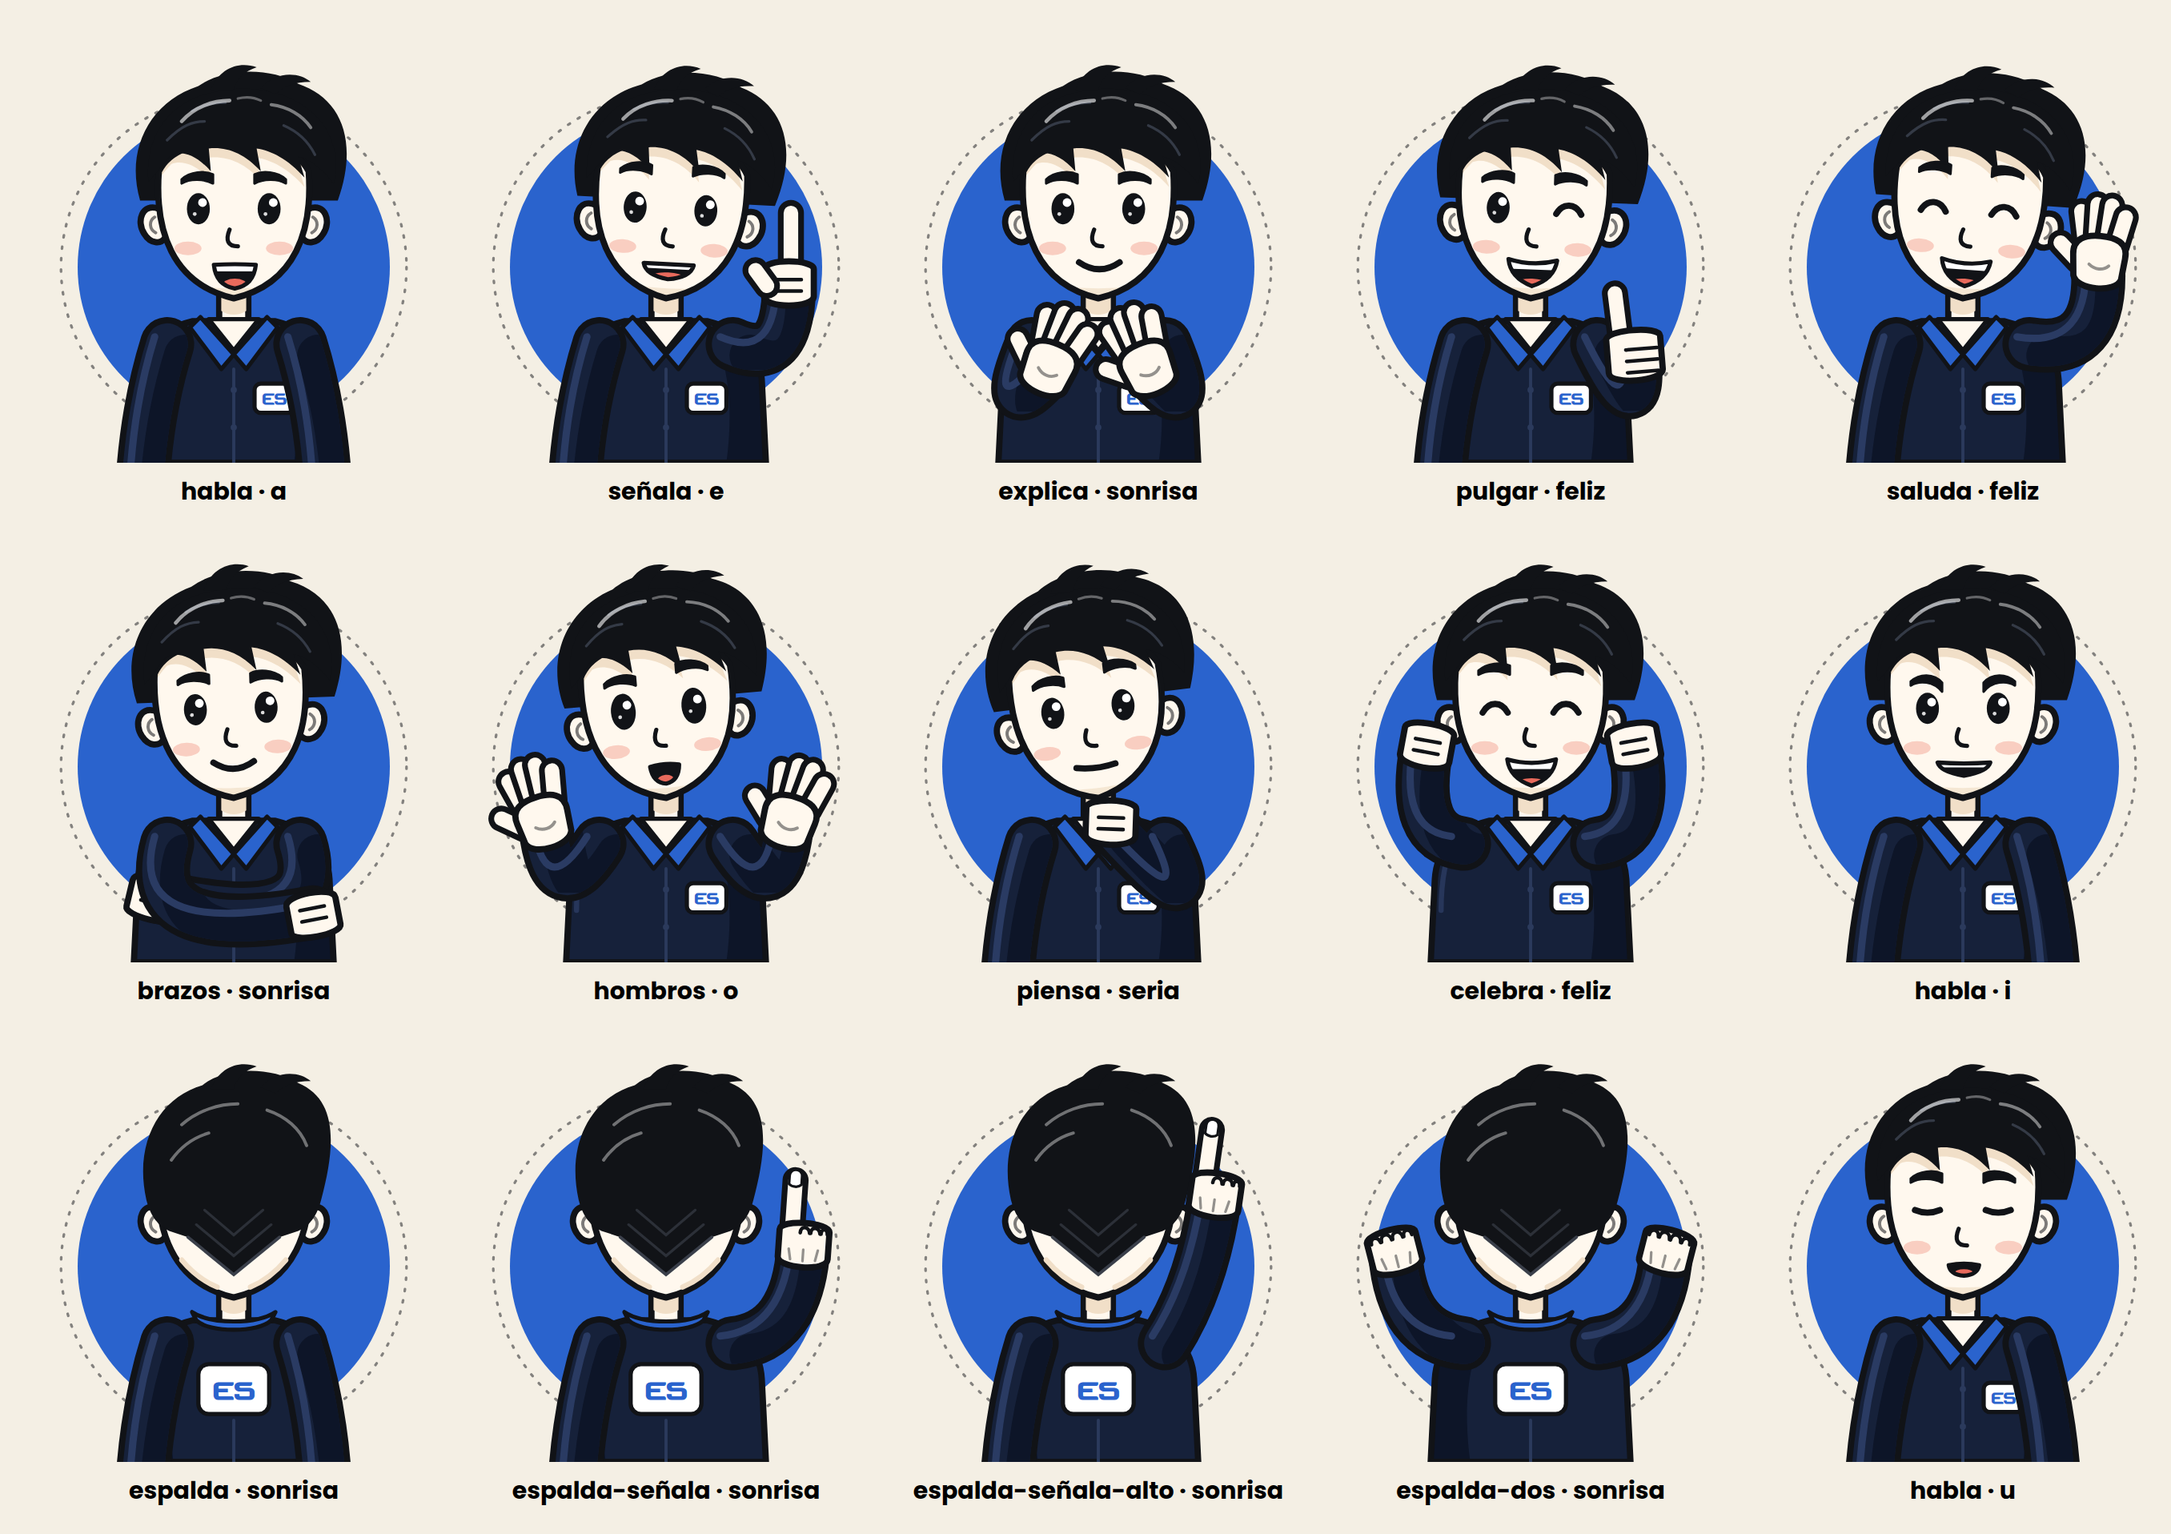
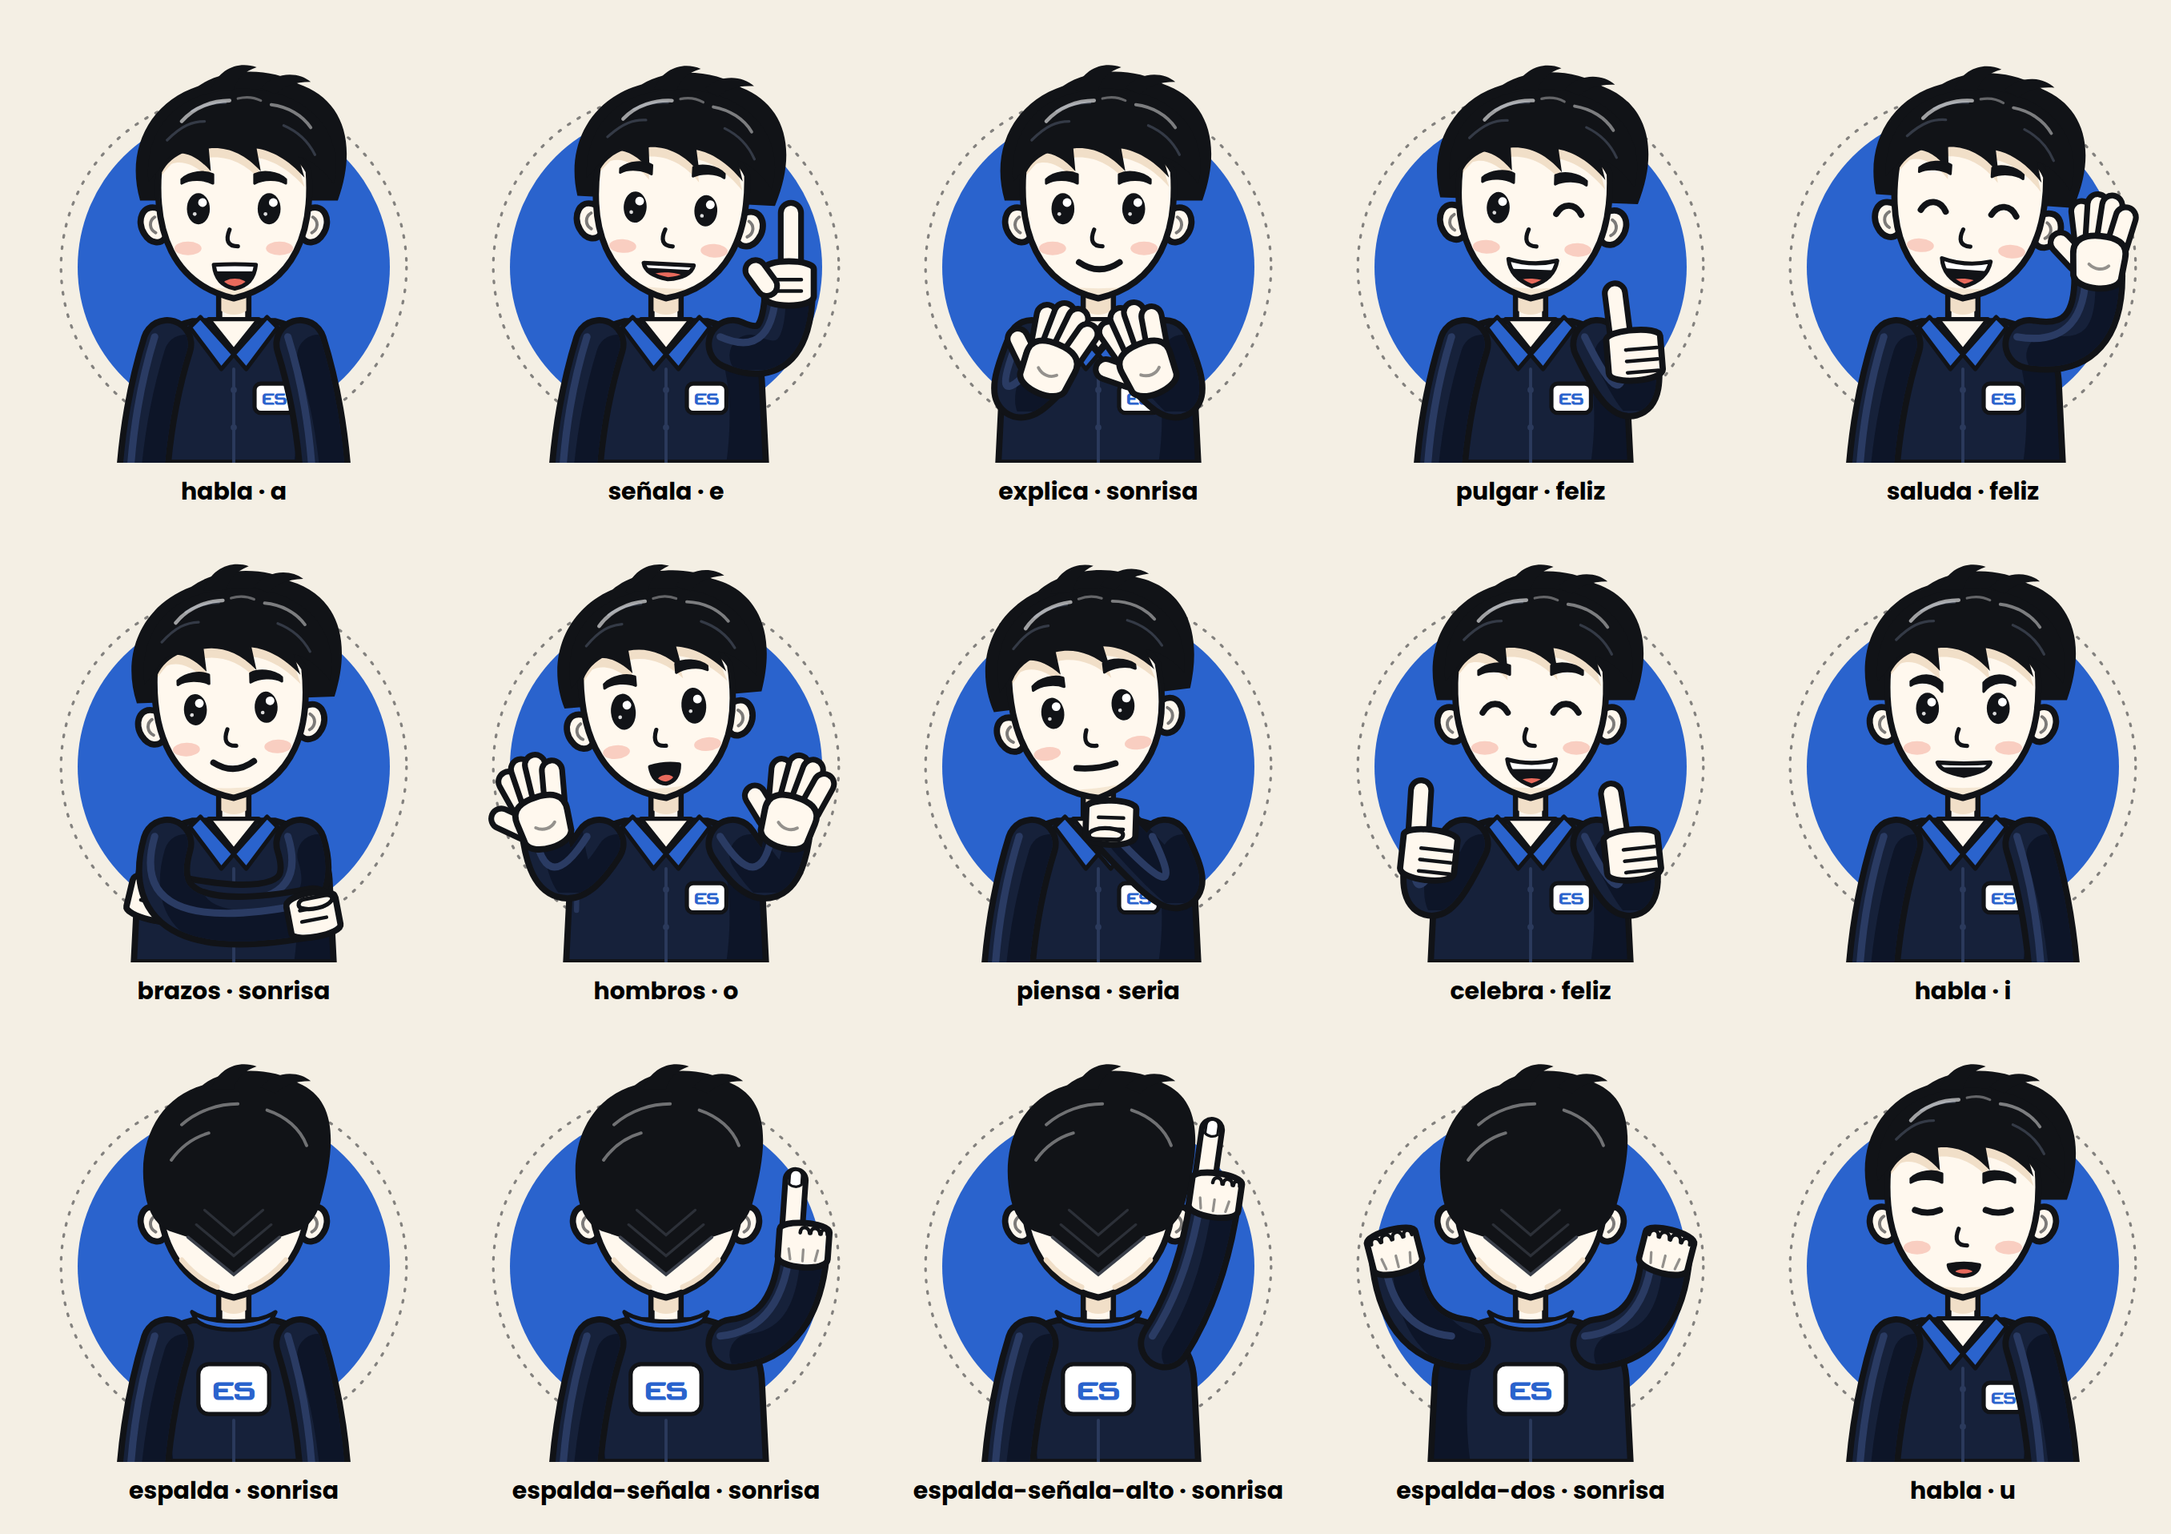
[Marketing] Chispa celebra con los pulgares arriba (a la altura del pecho), puños con pulgar y la sección de cursos en el teléfono
Claude-Session: https://claude.ai/code/session_01JAmucwCZe2Ld2fALTHbQBs

Changed region(s): [[0.6195, 0.4619, 0.6814, 0.6159], [0.7124, 0.4619, 0.7743, 0.6159]]

diff --git a/marketing/reels/chispa-medio.html b/marketing/reels/chispa-medio.html
@@ -40,7 +40,20 @@ html, body { width: 540px; height: 960px; overflow: hidden; background: #f4efe4;
 #flash { position: absolute; inset: 0; background: #fff; opacity: 0; z-index: 60; }
 #tel { position: absolute; left: 145px; top: 78px; width: 250px; height: 400px; border-radius: 34px; background: #0a0a0a; padding: 8px; box-shadow: 0 0 0 2px #2c2f34, 7px 7px 0 #111317; z-index: 12; }
 #scr { position: relative; width: 100%; height: 100%; border-radius: 27px; overflow: hidden; background: #fff; }
-#scr img { position: absolute; inset: 0; width: 100%; height: 100%; object-fit: cover; object-position: 50% 0; transform-origin: 50% 0; }
+#web { position: absolute; inset: 0; transform-origin: 50% 0; background: #f8f9fa; }
+#web .hdr { height: 62px; overflow: hidden; background: #fff; border-bottom: 1px solid #e9ecef; }
+#web .hdr img { width: 100%; display: block; }
+#web .cw { padding: 10px 10px 0; }
+#web .eb { font: 700 7.5px Inter; letter-spacing: 1px; color: #2a63cd; }
+#web .h1 { margin-top: 2px; font: 800 19px/1.1 Inter; color: #212529; }
+#web .h2 { margin-top: 10px; font: 700 11px Inter; color: #212529; }
+#web .cg { display: grid; grid-template-columns: 1fr 1fr; gap: 8px; margin-top: 7px; }
+#web .cc { background: #fff; border: 1px solid #e9ecef; border-radius: 9px; overflow: hidden; padding-bottom: 6px; }
+#web .th { position: relative; height: 62px; display: flex; align-items: center; justify-content: center; }
+#web .th svg { width: 26px; height: 26px; }
+#web .th span { position: absolute; left: 5px; top: 5px; font: 800 6px Inter; letter-spacing: .5px; padding: 2px 4px; border-radius: 3px; background: #ffd54a; color: #212529; }
+#web .cc b { display: block; margin: 5px 6px 0; font: 700 9.5px Inter; color: #212529; }
+#web .cc i { display: block; margin: 1px 6px 0; font: 500 7.5px Inter; font-style: normal; color: #6a6c6b; }
 #isla { position: absolute; left: 50%; top: 9px; width: 64px; height: 18px; margin-left: -32px; border-radius: 10px; background: #000; z-index: 2; }
 #sello { position: absolute; right: 40px; top: 300px; z-index: 14; padding: 8px 14px; background: #ffd54a; color: #111317; border: 3px solid #111317; border-radius: 12px; box-shadow: 5px 5px 0 #111317; font: 800 22px/1 Poppins; text-align: center; }
 #sello small { display: block; margin-top: 4px; font: 700 12px Inter; letter-spacing: 1.5px; }
@@ -61,7 +74,20 @@ html, body { width: 540px; height: 960px; overflow: hidden; background: #f4efe4;
 <div id="stage">
   <div id="grid"></div>
   <div id="head"><span class="brand"><img src="assets/logo-color.png" alt=""></span><span class="chip">ELECTROSHOPVE.COM</span></div>
-    <div id="tel" class="o"><div id="scr"><img src="assets/web-movil.jpg" alt=""></div></div>
+    <div id="tel" class="o"><div id="scr"><div id="web">
+    <div class="hdr"><img src="assets/web-movil.jpg" alt=""></div>
+    <div class="cw">
+      <div class="eb">APRENDE CON EXPERTOS</div>
+      <div class="h1">Cursos online</div>
+      <div class="h2">Todos los cursos</div>
+      <div class="cg">
+        <div class="cc"><div class="th" style="background:linear-gradient(135deg,#2a63cd,#142d61)"><svg viewBox="0 0 24 24" fill="none" stroke="#fff" stroke-width="2" stroke-linecap="round" stroke-linejoin="round"><rect x="4" y="4" width="16" height="16" rx="2"/><rect x="9" y="9" width="6" height="6"/><line x1="9" y1="1" x2="9" y2="4"/><line x1="15" y1="1" x2="15" y2="4"/><line x1="9" y1="20" x2="9" y2="23"/><line x1="15" y1="20" x2="15" y2="23"/></svg><span>MUY PRONTO</span></div><b>Tecnología</b><i>Electro Shop</i></div>
+        <div class="cc"><div class="th" style="background:linear-gradient(135deg,#f59f00,#b45309)"><svg viewBox="0 0 24 24" fill="none" stroke="#fff" stroke-width="2" stroke-linecap="round" stroke-linejoin="round"><polygon points="13 2 3 14 12 14 11 22 21 10 12 10 13 2"/></svg><span>MUY PRONTO</span></div><b>Energía</b><i>Electro Shop</i></div>
+        <div class="cc"><div class="th" style="background:linear-gradient(135deg,#0f9d58,#047857)"><svg viewBox="0 0 24 24" fill="none" stroke="#fff" stroke-width="2" stroke-linecap="round" stroke-linejoin="round"><path d="M14.7 6.3a1 1 0 0 0 0 1.4l1.6 1.6a1 1 0 0 0 1.4 0l3.77-3.77a6 6 0 0 1-7.94 7.94l-6.91 6.91a2.12 2.12 0 0 1-3-3l6.91-6.91a6 6 0 0 1 7.94-7.94l-3.76 3.76z"/></svg><span>MUY PRONTO</span></div><b>Reparación</b><i>Electro Shop</i></div>
+        <div class="cc"><div class="th" style="background:linear-gradient(135deg,#7599de,#1e4ba3)"><svg viewBox="0 0 24 24" fill="none" stroke="#fff" stroke-width="2" stroke-linecap="round" stroke-linejoin="round"><rect x="2" y="3" width="20" height="14" rx="2"/><line x1="8" y1="21" x2="16" y2="21"/><line x1="12" y1="17" x2="12" y2="21"/></svg><span>MUY PRONTO</span></div><b>Software</b><i>Electro Shop</i></div>
+      </div>
+    </div>
+  </div></div></div>
   <div id="sello" class="o">Cursos<small>MUY PRONTO</small></div>
   <div id="pro">
     <div id="pT" class="o">¿Eres <em>especialista?</em></div>
@@ -125,7 +151,7 @@ window.seek = (t) => {
   const y = (1 - back(t / .55)) * 160; $('#chispa').style.transform = `translateY(${y.toFixed(1)}px)`;
   $('#disc').style.transform = `scale(${(.6 + .4 * back(t / .5)).toFixed(3)})`; $('#disc').style.opacity = Math.min(1, t / .25).toFixed(2);
   ver('#tel', t, .05, W('eres') - .35, 40);
-  document.querySelector('#scr img').style.transform = `scale(${(1 + .08 * Math.min(1, Math.max(0, t / 5))).toFixed(4)})`;
+  document.querySelector('#web').style.transform = `scale(${(1 + .06 * Math.min(1, Math.max(0, t / 4))).toFixed(4)})`;
   ver('#sello', t, W('cursos') - .05, W('eres') - .35, 20);
   ver('#pT', t, W('eres') - .05, 99, 16);
   ver('#pc0', t, W('tecnología') - .05, 99, 12); ver('#pc1', t, W('energía') - .05, 99, 12);

diff --git a/marketing/reels/chispa-medio.src.html b/marketing/reels/chispa-medio.src.html
@@ -40,7 +40,20 @@ html, body { width: 540px; height: 960px; overflow: hidden; background: #f4efe4;
 #flash { position: absolute; inset: 0; background: #fff; opacity: 0; z-index: 60; }
 #tel { position: absolute; left: 145px; top: 78px; width: 250px; height: 400px; border-radius: 34px; background: #0a0a0a; padding: 8px; box-shadow: 0 0 0 2px #2c2f34, 7px 7px 0 #111317; z-index: 12; }
 #scr { position: relative; width: 100%; height: 100%; border-radius: 27px; overflow: hidden; background: #fff; }
-#scr img { position: absolute; inset: 0; width: 100%; height: 100%; object-fit: cover; object-position: 50% 0; transform-origin: 50% 0; }
+#web { position: absolute; inset: 0; transform-origin: 50% 0; background: #f8f9fa; }
+#web .hdr { height: 62px; overflow: hidden; background: #fff; border-bottom: 1px solid #e9ecef; }
+#web .hdr img { width: 100%; display: block; }
+#web .cw { padding: 10px 10px 0; }
+#web .eb { font: 700 7.5px Inter; letter-spacing: 1px; color: #2a63cd; }
+#web .h1 { margin-top: 2px; font: 800 19px/1.1 Inter; color: #212529; }
+#web .h2 { margin-top: 10px; font: 700 11px Inter; color: #212529; }
+#web .cg { display: grid; grid-template-columns: 1fr 1fr; gap: 8px; margin-top: 7px; }
+#web .cc { background: #fff; border: 1px solid #e9ecef; border-radius: 9px; overflow: hidden; padding-bottom: 6px; }
+#web .th { position: relative; height: 62px; display: flex; align-items: center; justify-content: center; }
+#web .th svg { width: 26px; height: 26px; }
+#web .th span { position: absolute; left: 5px; top: 5px; font: 800 6px Inter; letter-spacing: .5px; padding: 2px 4px; border-radius: 3px; background: #ffd54a; color: #212529; }
+#web .cc b { display: block; margin: 5px 6px 0; font: 700 9.5px Inter; color: #212529; }
+#web .cc i { display: block; margin: 1px 6px 0; font: 500 7.5px Inter; font-style: normal; color: #6a6c6b; }
 #isla { position: absolute; left: 50%; top: 9px; width: 64px; height: 18px; margin-left: -32px; border-radius: 10px; background: #000; z-index: 2; }
 #sello { position: absolute; right: 40px; top: 300px; z-index: 14; padding: 8px 14px; background: #ffd54a; color: #111317; border: 3px solid #111317; border-radius: 12px; box-shadow: 5px 5px 0 #111317; font: 800 22px/1 Poppins; text-align: center; }
 #sello small { display: block; margin-top: 4px; font: 700 12px Inter; letter-spacing: 1.5px; }
@@ -61,7 +74,20 @@ html, body { width: 540px; height: 960px; overflow: hidden; background: #f4efe4;
 <div id="stage">
   <div id="grid"></div>
   <div id="head"><span class="brand"><img src="assets/logo-color.png" alt=""></span><span class="chip">ELECTROSHOPVE.COM</span></div>
-    <div id="tel" class="o"><div id="scr"><img src="assets/web-movil.jpg" alt=""></div></div>
+    <div id="tel" class="o"><div id="scr"><div id="web">
+    <div class="hdr"><img src="assets/web-movil.jpg" alt=""></div>
+    <div class="cw">
+      <div class="eb">APRENDE CON EXPERTOS</div>
+      <div class="h1">Cursos online</div>
+      <div class="h2">Todos los cursos</div>
+      <div class="cg">
+        <div class="cc"><div class="th" style="background:linear-gradient(135deg,#2a63cd,#142d61)"><svg viewBox="0 0 24 24" fill="none" stroke="#fff" stroke-width="2" stroke-linecap="round" stroke-linejoin="round"><rect x="4" y="4" width="16" height="16" rx="2"/><rect x="9" y="9" width="6" height="6"/><line x1="9" y1="1" x2="9" y2="4"/><line x1="15" y1="1" x2="15" y2="4"/><line x1="9" y1="20" x2="9" y2="23"/><line x1="15" y1="20" x2="15" y2="23"/></svg><span>MUY PRONTO</span></div><b>Tecnología</b><i>Electro Shop</i></div>
+        <div class="cc"><div class="th" style="background:linear-gradient(135deg,#f59f00,#b45309)"><svg viewBox="0 0 24 24" fill="none" stroke="#fff" stroke-width="2" stroke-linecap="round" stroke-linejoin="round"><polygon points="13 2 3 14 12 14 11 22 21 10 12 10 13 2"/></svg><span>MUY PRONTO</span></div><b>Energía</b><i>Electro Shop</i></div>
+        <div class="cc"><div class="th" style="background:linear-gradient(135deg,#0f9d58,#047857)"><svg viewBox="0 0 24 24" fill="none" stroke="#fff" stroke-width="2" stroke-linecap="round" stroke-linejoin="round"><path d="M14.7 6.3a1 1 0 0 0 0 1.4l1.6 1.6a1 1 0 0 0 1.4 0l3.77-3.77a6 6 0 0 1-7.94 7.94l-6.91 6.91a2.12 2.12 0 0 1-3-3l6.91-6.91a6 6 0 0 1 7.94-7.94l-3.76 3.76z"/></svg><span>MUY PRONTO</span></div><b>Reparación</b><i>Electro Shop</i></div>
+        <div class="cc"><div class="th" style="background:linear-gradient(135deg,#7599de,#1e4ba3)"><svg viewBox="0 0 24 24" fill="none" stroke="#fff" stroke-width="2" stroke-linecap="round" stroke-linejoin="round"><rect x="2" y="3" width="20" height="14" rx="2"/><line x1="8" y1="21" x2="16" y2="21"/><line x1="12" y1="17" x2="12" y2="21"/></svg><span>MUY PRONTO</span></div><b>Software</b><i>Electro Shop</i></div>
+      </div>
+    </div>
+  </div></div></div>
   <div id="sello" class="o">Cursos<small>MUY PRONTO</small></div>
   <div id="pro">
     <div id="pT" class="o">¿Eres <em>especialista?</em></div>
@@ -125,7 +151,7 @@ window.seek = (t) => {
   const y = (1 - back(t / .55)) * 160; $('#chispa').style.transform = `translateY(${y.toFixed(1)}px)`;
   $('#disc').style.transform = `scale(${(.6 + .4 * back(t / .5)).toFixed(3)})`; $('#disc').style.opacity = Math.min(1, t / .25).toFixed(2);
   ver('#tel', t, .05, W('eres') - .35, 40);
-  document.querySelector('#scr img').style.transform = `scale(${(1 + .08 * Math.min(1, Math.max(0, t / 5))).toFixed(4)})`;
+  document.querySelector('#web').style.transform = `scale(${(1 + .06 * Math.min(1, Math.max(0, t / 4))).toFixed(4)})`;
   ver('#sello', t, W('cursos') - .05, W('eres') - .35, 20);
   ver('#pT', t, W('eres') - .05, 99, 16);
   ver('#pc0', t, W('tecnología') - .05, 99, 12); ver('#pc1', t, W('energía') - .05, 99, 12);

diff --git a/marketing/reels/assets/mascota/chispa.js b/marketing/reels/assets/mascota/chispa.js
@@ -95,7 +95,8 @@
       <path d="M-14 -6 L12 -6 M-14 5 L12 5" stroke="${INK}" stroke-width="3.5" stroke-linecap="round"/>${dedo(-21, 0, -32, -15)}`),
     pulgar: (x, y, r) => g(x, y, r, `${dedo(-12, -18, -14, -62)}<path d="M-26 -18 C-26 -28 26 -28 26 -18 L26 14 C26 26 -26 26 -26 14 Z" fill="${SKIN}" ${S}/>
       <path d="M-8 -7 L22 -7 M-8 4 L22 4 M-8 15 L22 15" stroke="${INK}" stroke-width="3.5" stroke-linecap="round"/>`),
-    puño: (x, y, r) => g(x, y, r, `<path d="${PUÑO}" fill="${SKIN}" ${S}/><path d="M-12 -7 L12 -7 M-12 4 L12 4" stroke="${INK}" stroke-width="3.5" stroke-linecap="round"/>`),
+    puño: (x, y, r) => g(x, y, r, `<path d="${PUÑO}" fill="${SKIN}" ${S}/><path d="M-12 -7 L12 -7 M-12 4 L12 4" stroke="${INK}" stroke-width="3.5" stroke-linecap="round"/>
+      <path d="M-20 8 C-14 2 2 2 10 6 C14 8 12 14 6 14 L-14 14 C-20 14 -22 11 -20 8 Z" fill="${SKIN}" stroke="${INK}" stroke-width="4" stroke-linejoin="round"/>`),
     // vistas por detrás: dorso del puño con nudillos; índice arriba con la uña
     puñoAtras: (x, y, r) => g(x, y, r, `<path d="${PUÑO}" fill="${SKIN}" ${S}/>
       <path d="M-20 -14 C-20 -21 -12 -21 -11 -14 M-10 -14 C-10 -22 -1 -22 0 -14 M1 -14 C1 -22 10 -22 11 -14 M12 -14 C12 -21 20 -21 20 -14" fill="none" stroke="${INK}" stroke-width="3.5" stroke-linecap="round"/>
@@ -152,7 +153,7 @@
     brazos: { L: { codo: [108, 404], muñeca: [276, 372], mano: 'puño', giro: 90 }, R: { codo: [292, 396], muñeca: [124, 356], mano: 'puño', giro: -90 }, orden: 'RL' },
     hombros: { L: { codo: [94, 372], muñeca: [84, 290], mano: 'palma', giro: -10 }, R: { codo: [306, 372], muñeca: [316, 290], mano: 'palma', giro: 10 } },
     saluda: { L: REPOSO_L, R: { codo: [334, 318], muñeca: [330, 232], mano: 'palma', giro: 8 } },
-    celebra: { L: { codo: [84, 300], muñeca: [100, 214], mano: 'puño', giro: 0 }, R: { codo: [316, 300], muñeca: [300, 214], mano: 'puño', giro: 0 } },
+    celebra: { L: { codo: [94, 392], muñeca: [102, 318], mano: 'pulgar', giro: 0 }, R: { codo: [306, 392], muñeca: [298, 318], mano: 'pulgar', giro: 0 } },
     piensa: { L: REPOSO_L, R: { codo: [306, 392], muñeca: [212, 288], mano: 'puño', giro: 44 } },
   };
   const INC_POSE = { señala: 3, pulgar: 2, brazos: -2, hombros: -5, saluda: 4, piensa: -7, celebra: 0, explica: 0 };
